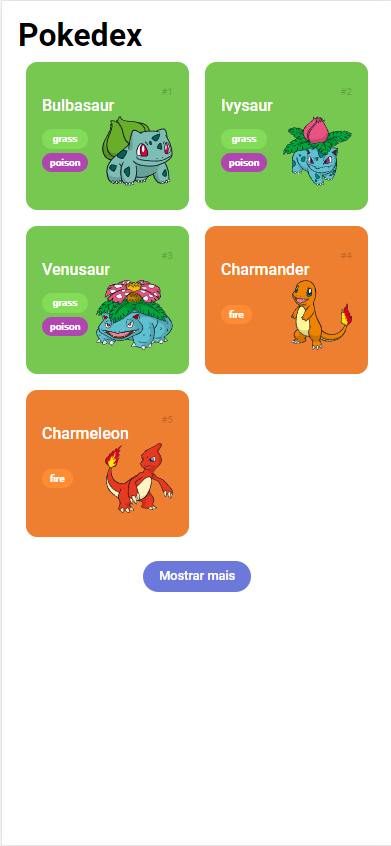
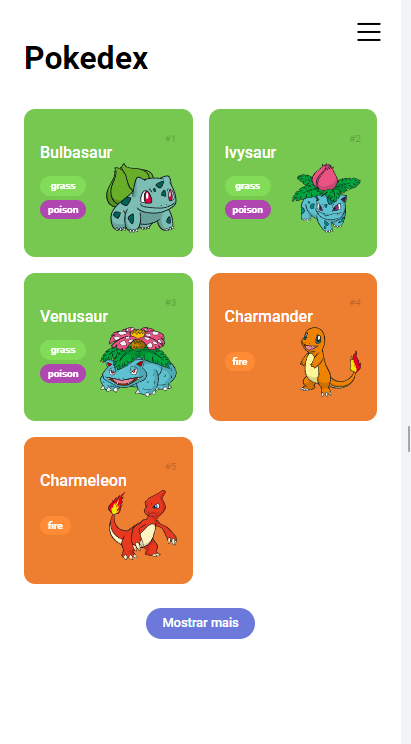
Alteracao README

diff --git a/README.md b/README.md
@@ -1,7 +1,6 @@
 # Pokédex
 
 ![Pokedex Banner](./assets/img/image.png)
-
 ## Sobre o projeto
 
 Pokédex Desenvolvida com o consumo da API REST [PokéApi](https://pokeapi.co/), utilizando o conceito MobileFirst.
@@ -17,8 +16,11 @@ Pokédex Desenvolvida com o consumo da API REST [PokéApi](https://pokeapi.co/),
 
 ## Funcionalidades
 
-- Listar conteudo do Json no HTML de maneira dinamica
-- Paginação, limitada ao numero de itens maximo da requisição
+- [X] Listar conteudo do Json no HTML de maneira dinamica
+- [X] Paginação, limitada ao numero de itens maximo da requisição
+- [] Menu lateral
+- [] Detalhes do Pokemon
+- [] Pesquisa por Pokemon
 
 ## Como Usar
 
